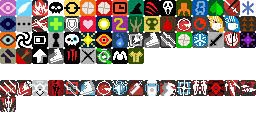
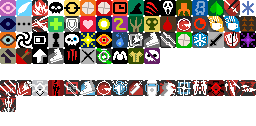
新增小提琴、战地摄影师、冬痕、煌初武的武技 为冬痕武技制作了特效

Changed region(s): [[0.5625, 0.381, 0.625, 0.5238]]

diff --git a/Arrrknights/core/src/main/java/com/shatteredpixel/shatteredpixeldungeon/items/weapon/melee/WornShortsword.java b/Arrrknights/core/src/main/java/com/shatteredpixel/shatteredpixeldungeon/items/weapon/melee/WornShortsword.java
@@ -22,7 +22,20 @@
 package com.shatteredpixel.shatteredpixeldungeon.items.weapon.melee;
 
 import com.shatteredpixel.shatteredpixeldungeon.Assets;
+import com.shatteredpixel.shatteredpixeldungeon.Dungeon;
+import com.shatteredpixel.shatteredpixeldungeon.actors.Actor;
+import com.shatteredpixel.shatteredpixeldungeon.actors.Char;
+import com.shatteredpixel.shatteredpixeldungeon.actors.buffs.Buff;
+import com.shatteredpixel.shatteredpixeldungeon.actors.buffs.FlavourBuff;
+import com.shatteredpixel.shatteredpixeldungeon.actors.buffs.Invisibility;
+import com.shatteredpixel.shatteredpixeldungeon.actors.hero.Hero;
+import com.shatteredpixel.shatteredpixeldungeon.messages.Messages;
 import com.shatteredpixel.shatteredpixeldungeon.sprites.ItemSpriteSheet;
+import com.shatteredpixel.shatteredpixeldungeon.ui.AttackIndicator;
+import com.shatteredpixel.shatteredpixeldungeon.ui.BuffIndicator;
+import com.shatteredpixel.shatteredpixeldungeon.utils.GLog;
+import com.watabou.noosa.audio.Sample;
+import com.watabou.utils.Callback;
 
 public class WornShortsword extends MeleeWeapon {
 
@@ -37,5 +50,78 @@ public class WornShortsword extends MeleeWeapon {
 		
 		bones = false;
 	}
+	@Override
+	public String targetingPrompt() {
+		return Messages.get(this, "prompt");
+	}
+	@Override
+	protected void duelistAbility(Hero hero, Integer target) {
+		//+(3+lvl) damage, roughly +55% base dmg, +67% scaling
+		int dmgBoost = augment.damageFactor(3 + buffedLvl());
+		cleaveAbility(hero, target, 1, dmgBoost, this);
+	}
+	public static void cleaveAbility(Hero hero, Integer target, float dmgMulti, int dmgBoost, MeleeWeapon wep){
+		if (target == null) {
+			return;
+		}
 
+		Char enemy = Actor.findChar(target);
+		if (enemy == null || enemy == hero || hero.isCharmedBy(enemy) || !Dungeon.level.heroFOV[target]) {
+			GLog.w(Messages.get(wep, "ability_no_target"));
+			return;
+		}
+
+		hero.belongings.abilityWeapon = wep;
+		if (!hero.canAttack(enemy)){
+			GLog.w(Messages.get(wep, "ability_target_range"));
+			hero.belongings.abilityWeapon = null;
+			return;
+		}
+		hero.belongings.abilityWeapon = null;
+
+		hero.sprite.attack(enemy.pos, new Callback() {
+			@Override
+			public void call() {
+				wep.beforeAbilityUsed(hero, enemy);
+				AttackIndicator.target(enemy);
+				if (hero.attack(enemy, dmgMulti, dmgBoost, Char.INFINITE_ACCURACY)){
+					Sample.INSTANCE.play(Assets.Sounds.HIT_STRONG);
+				}
+
+				Invisibility.dispel();
+
+				if (!enemy.isAlive()){
+					hero.next();
+					wep.onAbilityKill(hero, enemy);
+					if (hero.buff(CleaveTracker.class) != null) {
+						hero.buff(CleaveTracker.class).detach();
+					} else {
+						Buff.prolong(hero, CleaveTracker.class, 4f); //1 less as attack was instant
+					}
+				} else {
+					hero.spendAndNext(hero.attackDelay());
+					if (hero.buff(CleaveTracker.class) != null) {
+						hero.buff(CleaveTracker.class).detach();
+					}
+				}
+				wep.afterAbilityUsed(hero);
+			}
+		});
+	}
+	public static class CleaveTracker extends FlavourBuff {
+
+		{
+			type = buffType.POSITIVE;
+		}
+
+		@Override
+		public int icon() {
+			return BuffIndicator.DUEL_CLEAVE;
+		}
+
+		@Override
+		public float iconFadePercent() {
+			return Math.max(0, (5 - visualcooldown()) / 5);
+		}
+	}
 }

diff --git a/Arrrknights/core/src/main/java/com/shatteredpixel/shatteredpixeldungeon/items/weapon/melee/WintersScar.java b/Arrrknights/core/src/main/java/com/shatteredpixel/shatteredpixeldungeon/items/weapon/melee/WintersScar.java
@@ -2,18 +2,33 @@ package com.shatteredpixel.shatteredpixeldungeon.items.weapon.melee;
 
 import com.shatteredpixel.shatteredpixeldungeon.Assets;
 import com.shatteredpixel.shatteredpixeldungeon.Dungeon;
+import com.shatteredpixel.shatteredpixeldungeon.actors.Actor;
 import com.shatteredpixel.shatteredpixeldungeon.actors.Char;
+import com.shatteredpixel.shatteredpixeldungeon.actors.blobs.Blob;
+import com.shatteredpixel.shatteredpixeldungeon.actors.blobs.Freezing;
 import com.shatteredpixel.shatteredpixeldungeon.actors.buffs.Buff;
 import com.shatteredpixel.shatteredpixeldungeon.actors.buffs.Chill;
+import com.shatteredpixel.shatteredpixeldungeon.actors.buffs.Frost;
+import com.shatteredpixel.shatteredpixeldungeon.actors.buffs.Invisibility;
 import com.shatteredpixel.shatteredpixeldungeon.actors.hero.Hero;
 import com.shatteredpixel.shatteredpixeldungeon.actors.hero.Talent;
 import com.shatteredpixel.shatteredpixeldungeon.actors.mobs.Mob;
+import com.shatteredpixel.shatteredpixeldungeon.effects.coversprite.FrostBlastCover;
+import com.shatteredpixel.shatteredpixeldungeon.effects.coversprite.GawainCover;
 import com.shatteredpixel.shatteredpixeldungeon.items.artifacts.CustomeSet;
 import com.shatteredpixel.shatteredpixeldungeon.items.artifacts.WoundsofWar;
 import com.shatteredpixel.shatteredpixeldungeon.items.rings.RingOfAssassin;
 import com.shatteredpixel.shatteredpixeldungeon.items.rings.RingOfWealth;
+import com.shatteredpixel.shatteredpixeldungeon.items.weapon.Weapon;
 import com.shatteredpixel.shatteredpixeldungeon.messages.Messages;
+import com.shatteredpixel.shatteredpixeldungeon.scenes.GameScene;
 import com.shatteredpixel.shatteredpixeldungeon.sprites.ItemSpriteSheet;
+import com.shatteredpixel.shatteredpixeldungeon.ui.AttackIndicator;
+import com.shatteredpixel.shatteredpixeldungeon.utils.BArray;
+import com.shatteredpixel.shatteredpixeldungeon.utils.GLog;
+import com.watabou.noosa.audio.Sample;
+import com.watabou.utils.Callback;
+import com.watabou.utils.PathFinder;
 import com.watabou.utils.Random;
 
 public class WintersScar extends MeleeWeapon {
@@ -60,5 +75,38 @@ public class WintersScar extends MeleeWeapon {
         if (setbouns()) info += "\n\n" + Messages.get( this, "setbouns");
 
         return info;
+    }
+
+
+    @Override
+    protected void duelistAbility(Hero hero, Integer target) {
+        int dmgBoost = augment.damageFactor(10 + 3*buffedLvl());
+        hero.belongings.abilityWeapon = this;
+        MeleeWeapon wep = this;
+
+        FrostBlastCover frostCover = new FrostBlastCover();
+        frostCover.centerAndPlay(hero.pos);
+        hero.sprite.attack(hero.pos, new Callback() {
+            @Override
+            public void call() {
+                wep.beforeAbilityUsed(hero, null);
+                Invisibility.dispel();
+
+                PathFinder.buildDistanceMap( hero.pos, BArray.not( Dungeon.level.solid, null ), 2 );
+                for (int i = 0; i < PathFinder.distance.length; i++) {
+                    if (PathFinder.distance[i] < Integer.MAX_VALUE) {
+                        Char ch = Actor.findChar(i);
+                        if (ch != null && ch.alignment == Char.Alignment.ENEMY){
+                            ch.damage(wep.damageRoll(hero)+dmgBoost, Dungeon.hero);
+                            if(ch.buff(Chill.class)!=null) Buff.affect(ch, Frost.class, 5+buffedLvl());
+                            Buff.affect(ch, Chill.class, 5+buffedLvl());
+                        }
+                    }
+                }
+
+                wep.afterAbilityUsed(hero);
+            }
+        });
+        hero.spendAndNext(Actor.TICK);
     }
 }

diff --git a/Arrrknights/core/src/main/java/com/shatteredpixel/shatteredpixeldungeon/effects/coversprite/FrostBlastCover.java b/Arrrknights/core/src/main/java/com/shatteredpixel/shatteredpixeldungeon/effects/coversprite/FrostBlastCover.java
@@ -1,0 +1,19 @@
+package com.shatteredpixel.shatteredpixeldungeon.effects.coversprite;
+
+import com.shatteredpixel.shatteredpixeldungeon.Assets;
+import com.watabou.noosa.TextureFilm;
+
+public class FrostBlastCover extends CoverSprite{
+    public FrostBlastCover(){
+        super();
+
+        texture( Assets.Sprites.FROSTBLASTCOVER );
+
+        TextureFilm frames = new TextureFilm( texture, 180, 180 );
+
+        defaultAnim = new Animation( 30, false );
+        defaultAnim.frames( frames, 0, 1, 2, 3, 4, 5, 6, 7, 8, 9, 10, 11, 12, 13, 14, 15, 16, 17, 18, 19, 20, 21);
+
+        play(defaultAnim);
+    }
+}

diff --git a/Arrrknights/core/src/main/java/com/shatteredpixel/shatteredpixeldungeon/items/weapon/melee/Violin.java b/Arrrknights/core/src/main/java/com/shatteredpixel/shatteredpixeldungeon/items/weapon/melee/Violin.java
@@ -6,8 +6,11 @@ import com.shatteredpixel.shatteredpixeldungeon.Assets;
 import com.shatteredpixel.shatteredpixeldungeon.Dungeon;
 import com.shatteredpixel.shatteredpixeldungeon.actors.Actor;
 import com.shatteredpixel.shatteredpixeldungeon.actors.Char;
+import com.shatteredpixel.shatteredpixeldungeon.actors.buffs.Adrenaline;
+import com.shatteredpixel.shatteredpixeldungeon.actors.buffs.Bless;
 import com.shatteredpixel.shatteredpixeldungeon.actors.buffs.Buff;
 import com.shatteredpixel.shatteredpixeldungeon.actors.buffs.HuntingMark;
+import com.shatteredpixel.shatteredpixeldungeon.actors.buffs.Invisibility;
 import com.shatteredpixel.shatteredpixeldungeon.actors.buffs.LockedFloor;
 import com.shatteredpixel.shatteredpixeldungeon.actors.buffs.Paralysis;
 import com.shatteredpixel.shatteredpixeldungeon.actors.buffs.RabbitTime;
@@ -381,5 +384,15 @@ public class Violin extends MeleeWeapon {
 
             return true;
         }
+    }
+
+    @Override
+    protected void duelistAbility(Hero hero, Integer target) {
+        hero.belongings.abilityWeapon = this;
+        MeleeWeapon wep = this;
+        wep.beforeAbilityUsed(hero, null);
+        Buff.affect( Dungeon.hero, Bless.class ,5f+2*buffedLvl());
+        Buff.affect( Dungeon.hero, Adrenaline.class ,5f+2*buffedLvl());
+        wep.afterAbilityUsed(hero);
     }
 }

diff --git a/Arrrknights/core/src/main/java/com/shatteredpixel/shatteredpixeldungeon/items/weapon/melee/WarJournalist.java b/Arrrknights/core/src/main/java/com/shatteredpixel/shatteredpixeldungeon/items/weapon/melee/WarJournalist.java
@@ -7,6 +7,7 @@ import com.shatteredpixel.shatteredpixeldungeon.actors.buffs.Blindness;
 import com.shatteredpixel.shatteredpixeldungeon.actors.buffs.Buff;
 import com.shatteredpixel.shatteredpixeldungeon.actors.buffs.Camouflage;
 import com.shatteredpixel.shatteredpixeldungeon.actors.buffs.FlavourBuff;
+import com.shatteredpixel.shatteredpixeldungeon.actors.buffs.Invisibility;
 import com.shatteredpixel.shatteredpixeldungeon.actors.buffs.Twilight;
 import com.shatteredpixel.shatteredpixeldungeon.actors.hero.Hero;
 import com.shatteredpixel.shatteredpixeldungeon.actors.mobs.Mob;
@@ -151,5 +152,14 @@ public class WarJournalist extends MeleeWeapon {
             super.restoreFromBundle(bundle);
             isDie = bundle.getBoolean(ISDIE);
         }
+    }
+
+    @Override
+    protected void duelistAbility(Hero hero, Integer target) {
+        hero.belongings.abilityWeapon = this;
+        MeleeWeapon wep = this;
+        wep.beforeAbilityUsed(hero, null);
+        Buff.affect( Dungeon.hero, Invisibility.class ,5f+buffedLvl());
+        wep.afterAbilityUsed(hero);
     }
 }

diff --git a/Arrrknights/core/src/main/java/com/shatteredpixel/shatteredpixeldungeon/actors/buffs/Buff.java b/Arrrknights/core/src/main/java/com/shatteredpixel/shatteredpixeldungeon/actors/buffs/Buff.java
@@ -24,6 +24,7 @@ package com.shatteredpixel.shatteredpixeldungeon.actors.buffs;
 import com.shatteredpixel.shatteredpixeldungeon.TomorrowRogueNight;
 import com.shatteredpixel.shatteredpixeldungeon.actors.Actor;
 import com.shatteredpixel.shatteredpixeldungeon.actors.Char;
+import com.shatteredpixel.shatteredpixeldungeon.messages.Messages;
 import com.shatteredpixel.shatteredpixeldungeon.plants.Plant;
 import com.shatteredpixel.shatteredpixeldungeon.ui.BuffIndicator;
 import com.watabou.noosa.Image;
@@ -115,8 +116,14 @@ public class Buff extends Actor {
 		return null;
 	}
 
+	public String name() {
+		return Messages.get(this, "name");
+	}
+	public String toString() {
+		return Messages.get(this, "name");
+	}
 	public String desc(){
-		return "";
+		return Messages.get(this, "desc");
 	}
 
 	//to handle the common case of showing how many turns are remaining in a buff description.

diff --git a/Arrrknights/core/src/main/java/com/shatteredpixel/shatteredpixeldungeon/actors/buffs/FlavourBuff.java b/Arrrknights/core/src/main/java/com/shatteredpixel/shatteredpixeldungeon/actors/buffs/FlavourBuff.java
@@ -21,6 +21,8 @@
 
 package com.shatteredpixel.shatteredpixeldungeon.actors.buffs;
 
+import com.shatteredpixel.shatteredpixeldungeon.messages.Messages;
+
 //buff whose only internal logic is to wait and detach after a time.
 public class FlavourBuff extends Buff {
 	
@@ -30,6 +32,10 @@ public class FlavourBuff extends Buff {
 		return true;
 	}
 
+	@Override
+	public String desc() {
+		return Messages.get(this, "desc", dispTurns());
+	}
 	//flavour buffs can all just rely on cooldown()
 	protected String dispTurns() {
 		return dispTurns(visualcooldown());

diff --git a/Arrrknights/core/src/main/java/com/shatteredpixel/shatteredpixeldungeon/items/Item.java b/Arrrknights/core/src/main/java/com/shatteredpixel/shatteredpixeldungeon/items/Item.java
@@ -209,7 +209,7 @@ public class Item implements Bundlable {
 	}
 	
 	public void execute( Hero hero ) {
-		execute( hero, defaultAction );
+		execute( hero, defaultAction() );
 	}
 	
 	protected void onThrow( int cell ) {

diff --git a/Arrrknights/core/src/main/java/com/shatteredpixel/shatteredpixeldungeon/windows/WndBag.java b/Arrrknights/core/src/main/java/com/shatteredpixel/shatteredpixeldungeon/windows/WndBag.java
@@ -470,7 +470,7 @@ public class WndBag extends WndTabbed {
 						mode == Mode.UNIDENTIFED && !item.isIdentified() ||
 						mode == Mode.UNCURSABLE && ScrollOfRemoveCurse.uncursable(item) ||
 						mode == Mode.CURSABLE && ((item instanceof EquipableItem && !(item instanceof MissileWeapon)) || item instanceof Wand) ||
-						mode == Mode.QUICKSLOT && (item.defaultAction != null) ||
+						mode == Mode.QUICKSLOT && (item.defaultAction() != null) ||
 						mode == Mode.WEAPON && (item instanceof MeleeWeapon) ||
 						mode == Mode.MISSILEWEAPON && (item instanceof MissileWeapon) ||
 						mode == Mode.ARMOR && (item instanceof Armor) ||

diff --git a/Arrrknights/core/src/main/java/com/shatteredpixel/shatteredpixeldungeon/Assets.java b/Arrrknights/core/src/main/java/com/shatteredpixel/shatteredpixeldungeon/Assets.java
@@ -583,5 +583,6 @@ public class Assets {
 		public static final String EX42COVER	= "sprites/ex42cover.png";
 		public static final String BODCOVER	= "sprites/boundary-of-death.png";
 		public static final String GAWAINCOVER	= "sprites/gawaincover.png";
+		public static final String FROSTBLASTCOVER	= "sprites/FrostBlast.png";
 	}
 }

diff --git a/Arrrknights/core/src/main/java/com/shatteredpixel/shatteredpixeldungeon/actors/hero/Hero.java b/Arrrknights/core/src/main/java/com/shatteredpixel/shatteredpixeldungeon/actors/hero/Hero.java
@@ -1913,7 +1913,6 @@ public class Hero extends Char {
                 }
             }
         }
-
         if (hasTalent(Talent.WIND_ROAD)) {
             WildMark mark = buff(WildMark.class);
             if (mark != null) {

diff --git a/Arrrknights/core/src/main/java/com/shatteredpixel/shatteredpixeldungeon/ui/BuffIndicator.java b/Arrrknights/core/src/main/java/com/shatteredpixel/shatteredpixeldungeon/ui/BuffIndicator.java
@@ -102,6 +102,7 @@ public class BuffIndicator extends Component {
 	public static final int COOL_TIME    = 54;
 	public static final int RABBIT_TIME    = 55;
 	public static final int RAINCOAT_BUFF    = 56;
+	public static final int DUEL_CLEAVE = 57;
 
 	public static final int SIZE	= 7;
 	